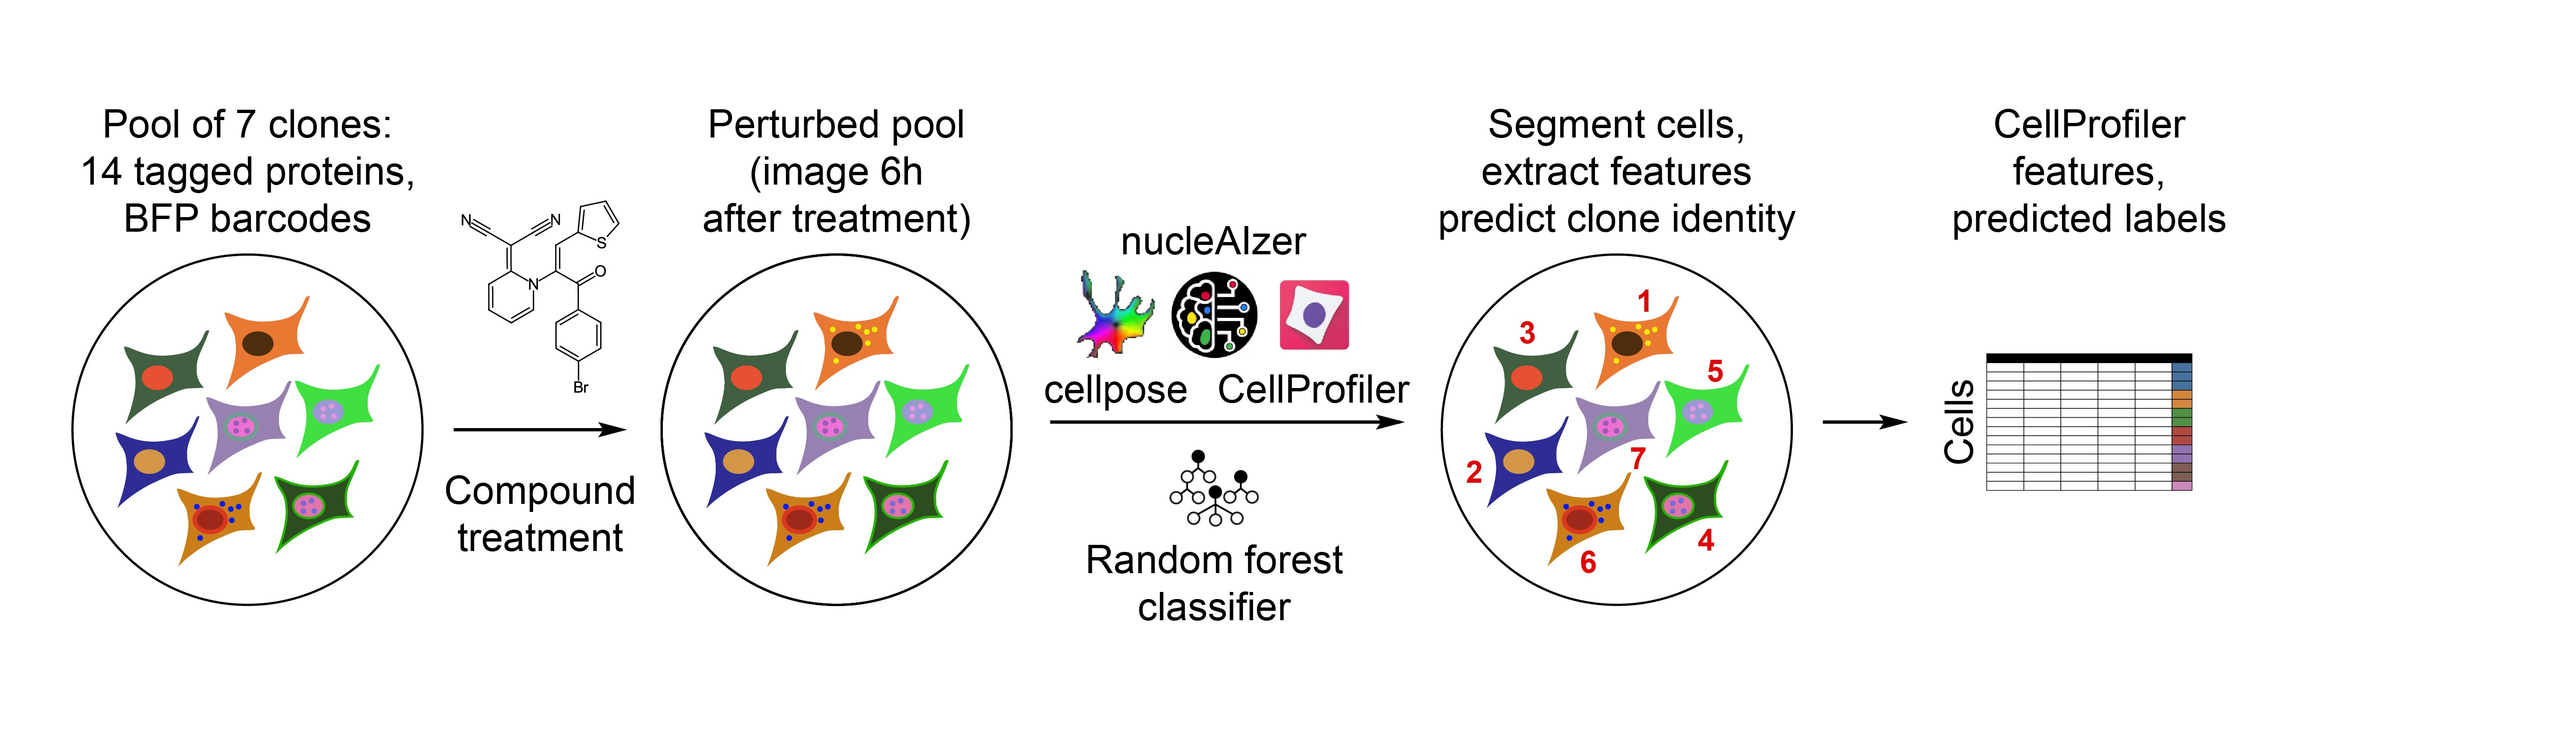
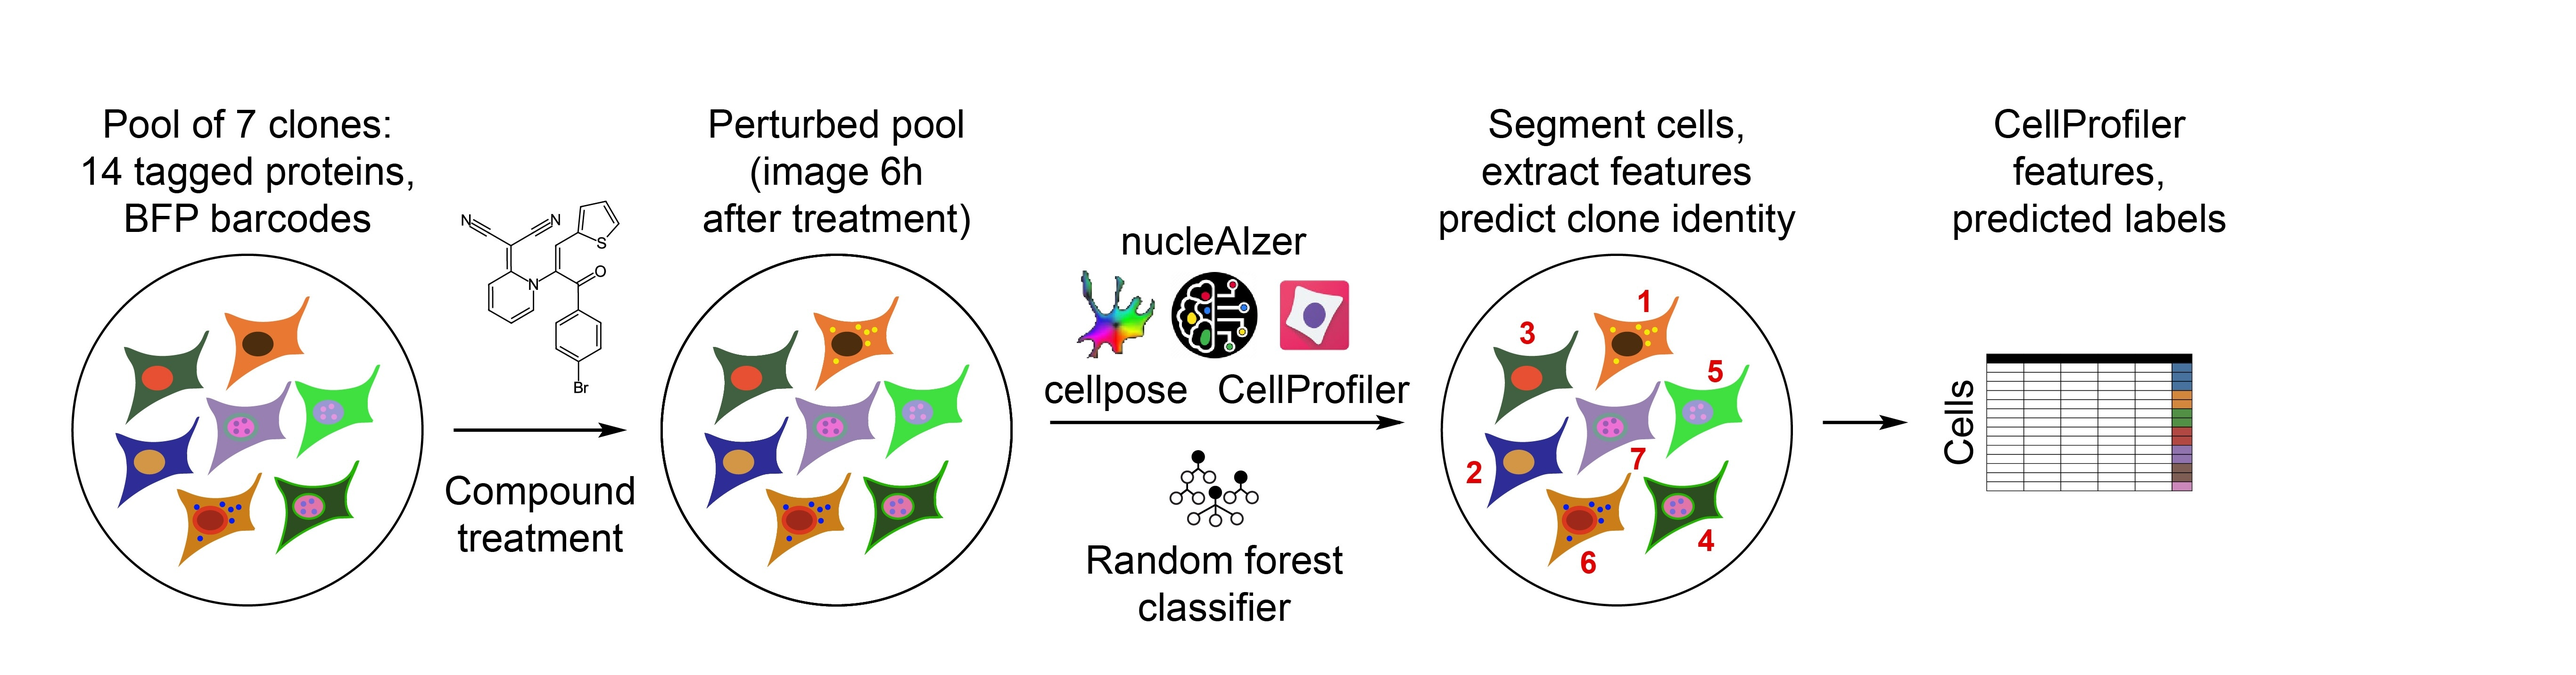
update

diff --git a/README.md b/README.md
@@ -1,6 +1,6 @@
 # Dataset: morphological profiling of >100,000 compounds with vpCell pool of 7 clones
 
-This repository contains download instructions for a morphological profiling dataset of over 100,000 chemical perturbations screened against a pool of seven multicolor-labeled clones. The data was generated at the [Kubicek Lab](https://cemm.at/research/groups/core-groups/stefan-kubicek/research) and the Molecular Discovery Platform at CeMM in Vienna, Austria. A full description of the analysis will be provided in the manuscript "High-throughput vpCells phenotyping for target-specific and global effects of 100,000 compounds," which is currently under revision.
+This repository contains download instructions for a morphological profiling dataset of over 100,000 chemical perturbations screened against a pool of seven multicolor-labeled clones. The data was generated by the [Kubicek Laboratory](https://cemm.at/research/groups/core-groups/stefan-kubicek/research) and the Molecular Discovery Platform at CeMM in Vienna, Austria. A full description of the analysis will be provided in the manuscript *High-throughput vpCells phenotyping for target-specific and global effects of 100,000 compounds*, which is currently under revision.
 
 <!-- &nbsp; -->
 
@@ -8,11 +8,10 @@ This repository contains download instructions for a morphological profiling dat
 ![chemical compound library](images/library.jpg)
 
 #### Dataset statistics:
-- 325 measurements (Opera Phenix imaging runs)
-- 106,720 compound treatments
-- 124,800 wells
+- 325 measurements (Opera Phenix imaging runs)  
+- 124,800 wells = 106,720 screening compound treatments + controls
 - 615,547 fields of view
-- 83,048,075 cells
+- 83,048,075 segmented cells after quality filtering
 
 #### Experimental setup
 
